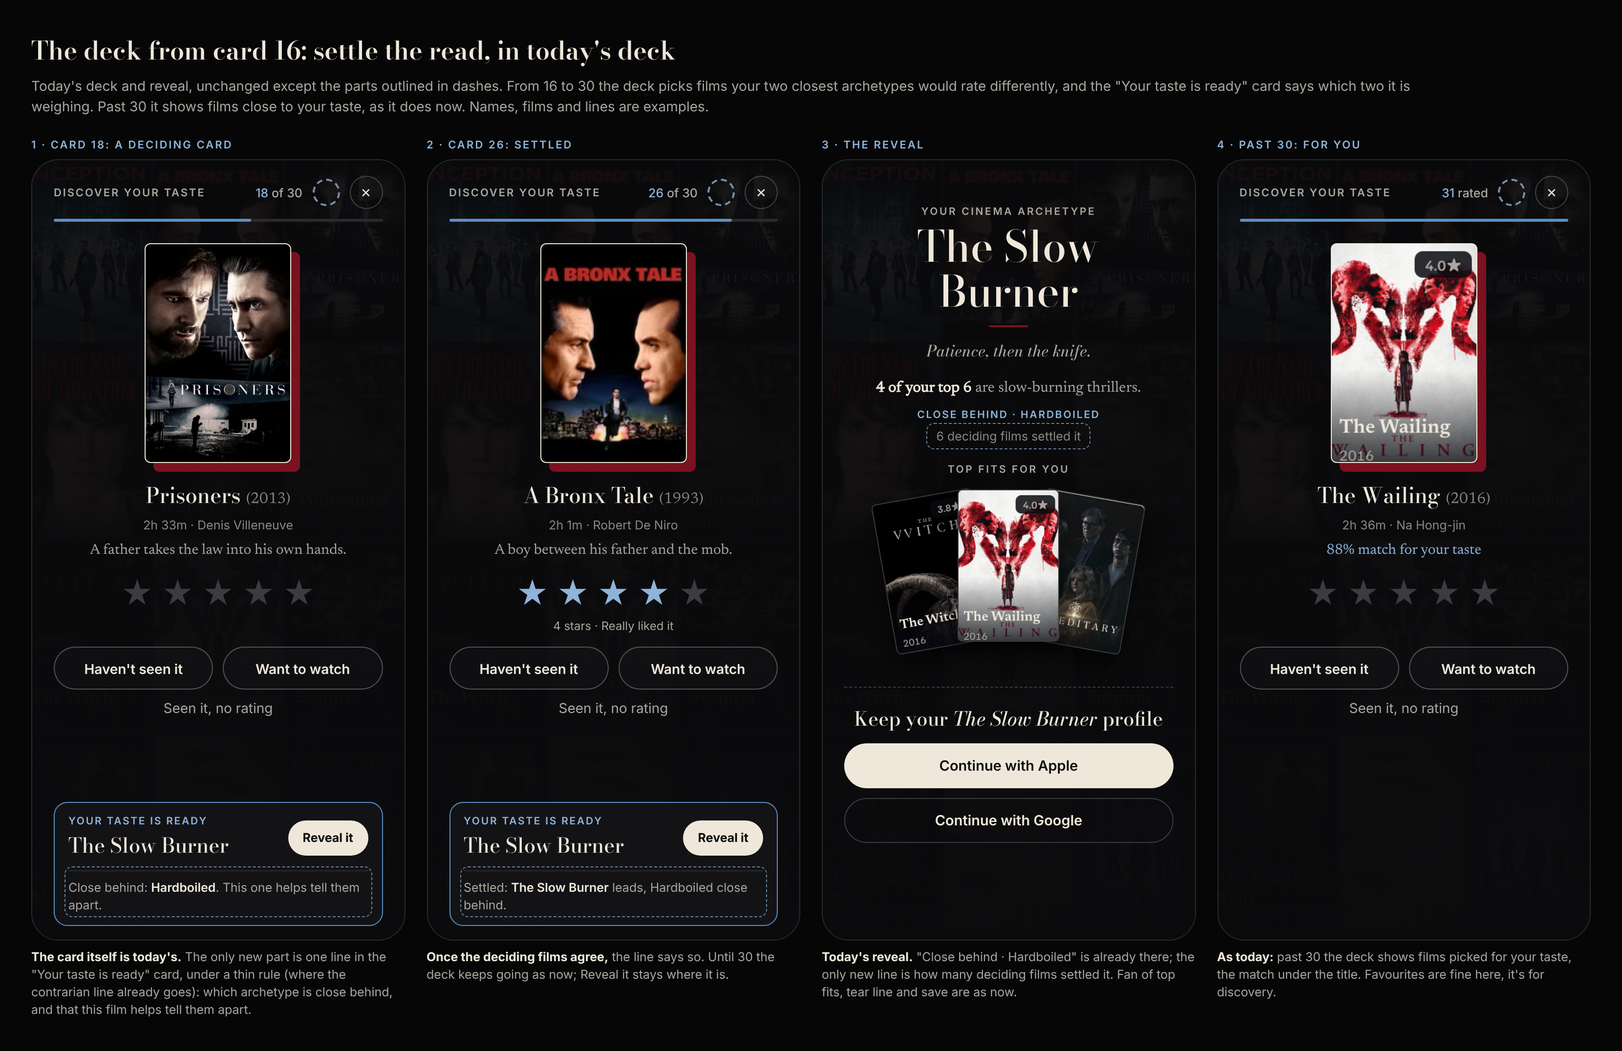
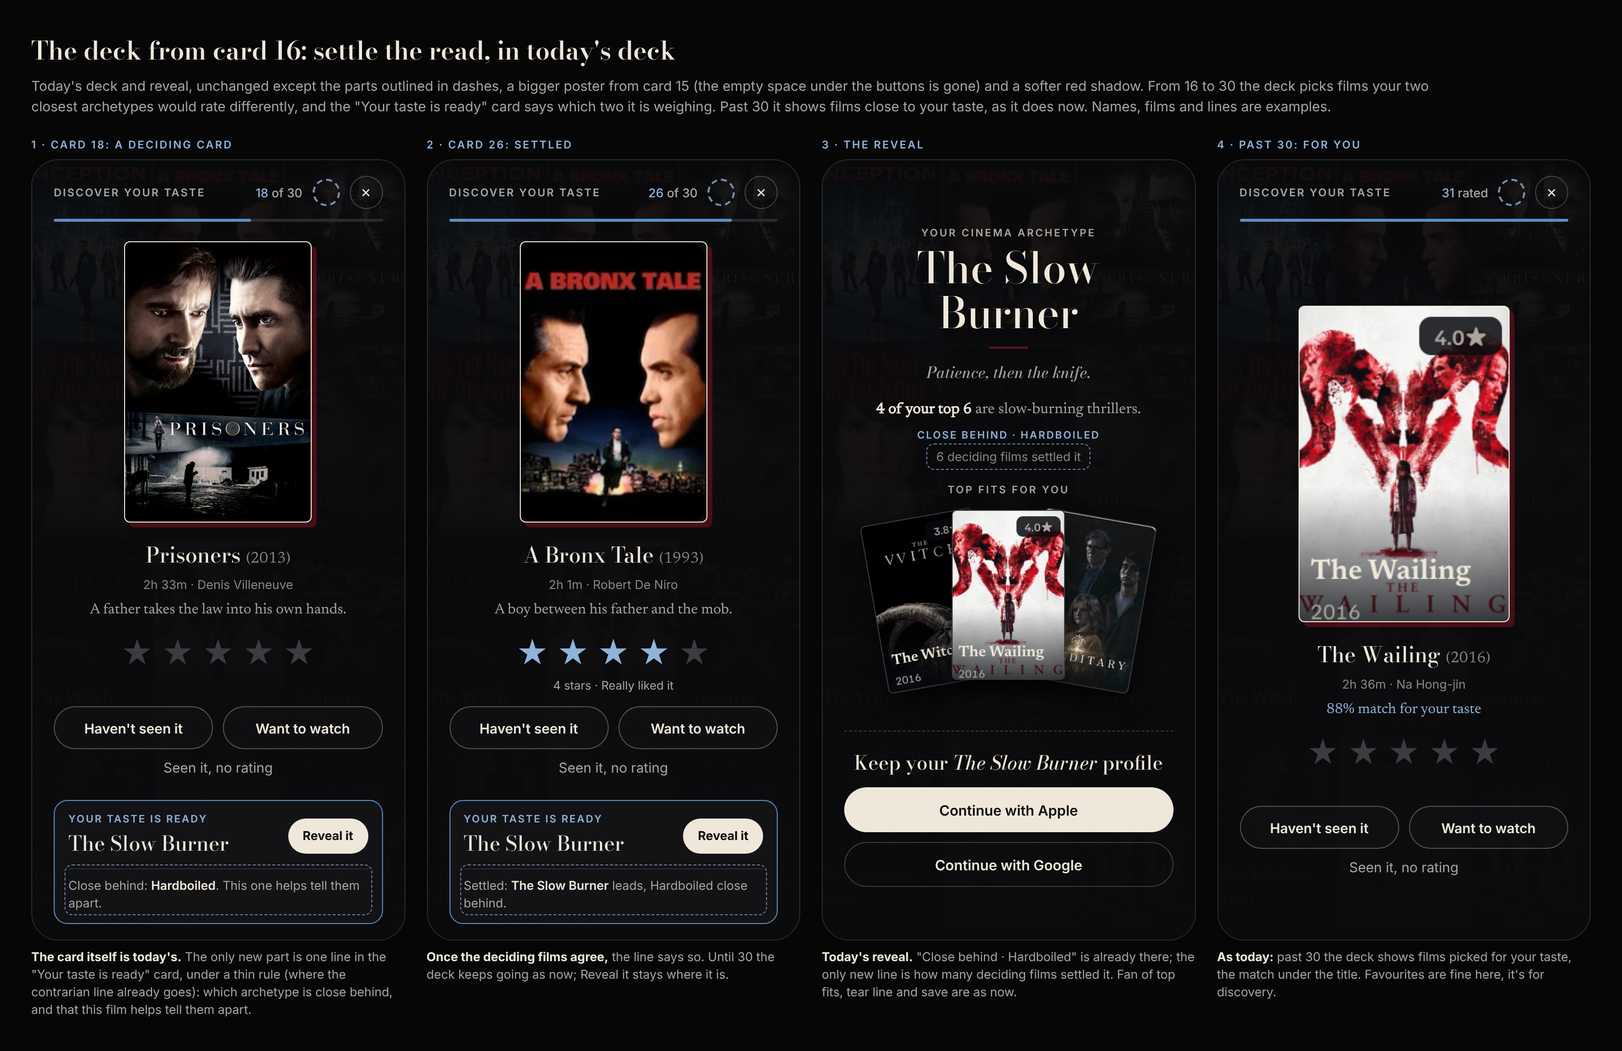
Mock: deciding cards, tighter spacing and softer red shadow
Claude-Session: https://claude.ai/code/session_013WRDCFXH8nihP92apJAVW7

diff --git a/mockups/journeys/deck-decide-v2.html b/mockups/journeys/deck-decide-v2.html
@@ -17,7 +17,8 @@ h1{font:600 26px 'Bodoni Moda',serif;margin-bottom:6px}.lede{color:var(--muted);
 .ring{width:28px;height:28px;border-radius:50%;border:2px dashed var(--accent2);opacity:.8}
 .x{width:34px;height:34px;border-radius:50%;border:1px solid rgba(255,255,255,.22);display:flex;align-items:center;justify-content:center;font-size:13px}
 .bar{height:3px;margin:10px 22px 0;background:var(--line);border-radius:2px}.bar i{display:block;height:100%;background:var(--accent);border-radius:2px}
-.po{width:150px;height:225px;margin:22px auto 0;background:center/cover;border-radius:6px;border:1.5px solid var(--ink);box-shadow:9px 9px 0 #7a1220}
+.po{width:192px;height:288px;margin:20px auto 0;background:center/cover;border-radius:6px;border:1.5px solid var(--ink);box-shadow:5px 5px 0 rgba(122,18,32,.55)}
+.ph.solo .po{width:216px;height:324px}.ph.solo .pad{margin-top:auto}
 .ti{text-align:center;margin-top:16px;padding:0 22px;font:500 22px 'Bodoni Moda'}.ti span{font:400 16px Newsreader;color:var(--faint)}
 .mt{text-align:center;font-size:12.5px;color:var(--faint);margin-top:6px}
 .hk{text-align:center;font:400 15px/1.4 Newsreader;color:var(--muted);margin-top:8px;padding:0 26px}
@@ -26,7 +27,7 @@ h1{font:600 26px 'Bodoni Moda',serif;margin-bottom:6px}.lede{color:var(--muted);
 .cap{text-align:center;font-size:12px;color:var(--muted);margin-top:6px;min-height:15px}
 .bt{display:flex;gap:10px;padding:0 22px;margin-top:14px}.bt span{flex:1;height:44px;border-radius:999px;border:1px solid rgba(255,255,255,.28);display:flex;align-items:center;justify-content:center;font:600 14px Inter;background:rgba(20,20,23,.5)}
 .qt{text-align:center;color:var(--muted);font-size:14px;margin-top:10px}
-.fc{margin:auto 22px 14px;background:rgba(20,20,23,.96);border:1px solid var(--accent);border-radius:14px;padding:12px 14px}
+.fc{margin:auto 22px 16px;background:rgba(20,20,23,.96);border:1px solid var(--accent);border-radius:14px;padding:12px 14px}
 .fc .r1{display:flex;align-items:center;gap:12px}.fc .m{flex:1}
 .fc .e{font:600 10.5px Inter;letter-spacing:.13em;text-transform:uppercase;color:var(--accent2)}
 .fc .n{font:500 21px 'Bodoni Moda';margin-top:2px}
@@ -35,20 +36,20 @@ h1{font:600 26px 'Bodoni Moda',serif;margin-bottom:6px}.lede{color:var(--muted);
 .fc .l{font-size:12.5px;color:var(--muted);margin-top:8px;line-height:1.4}.fc .l b{color:var(--ink);font-weight:600}
 .new{outline:1.5px dashed rgba(143,179,217,.7);outline-offset:3px;border-radius:4px}
 /* reveal */
-.rv{padding:30px 22px 0;text-align:center;display:flex;flex-direction:column;align-items:center}
+.rv{flex:1;justify-content:center;padding:20px 22px 22px;text-align:center;display:flex;flex-direction:column;align-items:center}
 .cl{font:600 10.5px Inter;letter-spacing:.17em;text-transform:uppercase;color:var(--muted)}
 .nm{font:500 44px/1.05 'Bodoni Moda';margin-top:6px}
-.ox{width:40px;height:2px;background:#7a1220;margin-top:12px}
+.ox{width:40px;height:2px;background:rgba(122,18,32,.8);margin-top:12px}
 .tag{font:italic 500 16px 'Bodoni Moda';color:var(--muted);margin-top:12px}
 .why{font:400 15.5px/1.45 Newsreader;color:var(--muted);margin-top:16px}.why b{color:var(--ink)}
 .stk{font:600 10.5px Inter;letter-spacing:.13em;text-transform:uppercase;color:var(--accent2);margin-top:8px}
-.fan{position:relative;height:190px;width:100%;margin-top:14px}.fan i{position:absolute;left:50%;top:6px;width:104px;height:156px;border-radius:5px;background:center/cover;border:1px solid var(--line2);box-shadow:0 10px 24px rgba(0,0,0,.6)}
-.tear{width:100%;border-top:1.5px dashed var(--line2);margin-top:12px}
+.fan{position:relative;height:210px;width:100%;margin-top:14px}.fan i{position:absolute;left:50%;top:6px;width:116px;height:174px;border-radius:5px;background:center/cover;border:1px solid var(--line2);box-shadow:0 10px 24px rgba(0,0,0,.6)}
+.tear{width:100%;border-top:1.5px dashed var(--line2);margin-top:16px}
 .keep{font:500 20px 'Bodoni Moda';margin-top:16px}.keep i{font-style:italic}
 .sb{width:100%;height:46px;border-radius:999px;display:flex;align-items:center;justify-content:center;font:600 14.5px Inter;margin-top:10px}
 .sb.a{background:var(--ink);color:var(--bg)}.sb.g{border:1px solid var(--line2)}
 </style></head><body><h1>The deck from card 16: settle the read, in today's deck</h1>
-<p class="lede">Today's deck and reveal, unchanged except the parts outlined in dashes. From 16 to 30 the deck picks films your two closest archetypes would rate differently, and the "Your taste is ready" card says which two it is weighing. Past 30 it shows films close to your taste, as it does now. Names, films and lines are examples.</p>
+<p class="lede">Today's deck and reveal, unchanged except the parts outlined in dashes, a bigger poster from card 15 (the empty space under the buttons is gone) and a softer red shadow. From 16 to 30 the deck picks films your two closest archetypes would rate differently, and the "Your taste is ready" card says which two it is weighing. Past 30 it shows films close to your taste, as it does now. Names, films and lines are examples.</p>
 <div class="grid">
 <div><div class="tg">1 · Card 18: a deciding card</div><div class="ph wb"><div class="bgw"><i class="lit" style="background-image:url(../img/inception.png)"></i><i class="lit" style="background-image:url(../img/bronx.png)"></i><i class="lit" style="background-image:url(../img/prisoners.png)"></i><i class="lit" style="background-image:url(../img/itnotf.png)"></i><i class="" style="background-image:url(../img/hereditary.png)"></i><i class="" style="background-image:url(../img/midsommar.png)"></i><i class="" style="background-image:url(../img/witch.png)"></i><i class="" style="background-image:url(../img/wailing.png)"></i><i class="" style="background-image:url(../img/suspiria.png)"></i><i class="" style="background-image:url(../img/wickerman.png)"></i><i class="" style="background-image:url(../img/midsommar-top.png)"></i><i class="" style="background-image:url(../img/inception.png)"></i><i class="" style="background-image:url(../img/bronx.png)"></i><i class="" style="background-image:url(../img/prisoners.png)"></i><i class="" style="background-image:url(../img/itnotf.png)"></i><i class="" style="background-image:url(../img/hereditary.png)"></i><i class="" style="background-image:url(../img/midsommar.png)"></i><i class="" style="background-image:url(../img/witch.png)"></i><i class="" style="background-image:url(../img/wailing.png)"></i><i class="" style="background-image:url(../img/suspiria.png)"></i><i class="" style="background-image:url(../img/wickerman.png)"></i><i class="" style="background-image:url(../img/midsommar-top.png)"></i><i class="" style="background-image:url(../img/inception.png)"></i><i class="" style="background-image:url(../img/bronx.png)"></i><i class="" style="background-image:url(../img/prisoners.png)"></i><i class="" style="background-image:url(../img/itnotf.png)"></i><i class="" style="background-image:url(../img/hereditary.png)"></i><i class="" style="background-image:url(../img/midsommar.png)"></i><i class="" style="background-image:url(../img/witch.png)"></i><i class="" style="background-image:url(../img/wailing.png)"></i><i class="" style="background-image:url(../img/suspiria.png)"></i><i class="" style="background-image:url(../img/wickerman.png)"></i><i class="" style="background-image:url(../img/midsommar-top.png)"></i><i class="" style="background-image:url(../img/inception.png)"></i><i class="" style="background-image:url(../img/bronx.png)"></i><i class="" style="background-image:url(../img/prisoners.png)"></i><i class="" style="background-image:url(../img/itnotf.png)"></i><i class="" style="background-image:url(../img/hereditary.png)"></i><i class="" style="background-image:url(../img/midsommar.png)"></i><i class="" style="background-image:url(../img/witch.png)"></i><i class="" style="background-image:url(../img/wailing.png)"></i><i class="" style="background-image:url(../img/suspiria.png)"></i><i class="" style="background-image:url(../img/wickerman.png)"></i><i class="" style="background-image:url(../img/midsommar-top.png)"></i><i class="" style="background-image:url(../img/inception.png)"></i><i class="" style="background-image:url(../img/bronx.png)"></i><i class="" style="background-image:url(../img/prisoners.png)"></i><i class="" style="background-image:url(../img/itnotf.png)"></i></div><div class="hd"><span class="eb">Discover your taste</span><span class="cnt"><b>18</b> of 30</span><span class="ring"></span><span class="x">✕</span></div><div class="bar"><i style="width:60%"></i></div><div class="po" style="background-image:url(../img/prisoners.png)"></div><div class="ti">Prisoners <span>(2013)</span></div><div class="mt">2h 33m · Denis Villeneuve</div><div class="hk">A father takes the law into his own hands.</div><div class="st"><span>★</span><span>★</span><span>★</span><span>★</span><span>★</span></div><div class="cap"></div><div class="bt"><span>Haven't seen it</span><span>Want to watch</span></div><div class="qt">Seen it, no rating</div><div class="fc"><div class="r1"><div class="m"><div class="e">Your taste is ready</div><div class="n">The Slow Burner</div></div><span class="p">Reveal it</span></div><div class="new"><div class="rl"></div><div class="l">Close behind: <b>Hardboiled</b>. This one helps tell them apart.</div></div></div></div><div class="note"><b>The card itself is today's.</b> The only new part is one line in the "Your taste is ready" card, under a thin rule (where the contrarian line already goes): which archetype is close behind, and that this film helps tell them apart.</div></div>
 <div><div class="tg">2 · Card 26: settled</div><div class="ph wb"><div class="bgw"><i class="lit" style="background-image:url(../img/inception.png)"></i><i class="lit" style="background-image:url(../img/bronx.png)"></i><i class="lit" style="background-image:url(../img/prisoners.png)"></i><i class="lit" style="background-image:url(../img/itnotf.png)"></i><i class="" style="background-image:url(../img/hereditary.png)"></i><i class="" style="background-image:url(../img/midsommar.png)"></i><i class="" style="background-image:url(../img/witch.png)"></i><i class="" style="background-image:url(../img/wailing.png)"></i><i class="" style="background-image:url(../img/suspiria.png)"></i><i class="" style="background-image:url(../img/wickerman.png)"></i><i class="" style="background-image:url(../img/midsommar-top.png)"></i><i class="" style="background-image:url(../img/inception.png)"></i><i class="" style="background-image:url(../img/bronx.png)"></i><i class="" style="background-image:url(../img/prisoners.png)"></i><i class="" style="background-image:url(../img/itnotf.png)"></i><i class="" style="background-image:url(../img/hereditary.png)"></i><i class="" style="background-image:url(../img/midsommar.png)"></i><i class="" style="background-image:url(../img/witch.png)"></i><i class="" style="background-image:url(../img/wailing.png)"></i><i class="" style="background-image:url(../img/suspiria.png)"></i><i class="" style="background-image:url(../img/wickerman.png)"></i><i class="" style="background-image:url(../img/midsommar-top.png)"></i><i class="" style="background-image:url(../img/inception.png)"></i><i class="" style="background-image:url(../img/bronx.png)"></i><i class="" style="background-image:url(../img/prisoners.png)"></i><i class="" style="background-image:url(../img/itnotf.png)"></i><i class="" style="background-image:url(../img/hereditary.png)"></i><i class="" style="background-image:url(../img/midsommar.png)"></i><i class="" style="background-image:url(../img/witch.png)"></i><i class="" style="background-image:url(../img/wailing.png)"></i><i class="" style="background-image:url(../img/suspiria.png)"></i><i class="" style="background-image:url(../img/wickerman.png)"></i><i class="" style="background-image:url(../img/midsommar-top.png)"></i><i class="" style="background-image:url(../img/inception.png)"></i><i class="" style="background-image:url(../img/bronx.png)"></i><i class="" style="background-image:url(../img/prisoners.png)"></i><i class="" style="background-image:url(../img/itnotf.png)"></i><i class="" style="background-image:url(../img/hereditary.png)"></i><i class="" style="background-image:url(../img/midsommar.png)"></i><i class="" style="background-image:url(../img/witch.png)"></i><i class="" style="background-image:url(../img/wailing.png)"></i><i class="" style="background-image:url(../img/suspiria.png)"></i><i class="" style="background-image:url(../img/wickerman.png)"></i><i class="" style="background-image:url(../img/midsommar-top.png)"></i><i class="" style="background-image:url(../img/inception.png)"></i><i class="" style="background-image:url(../img/bronx.png)"></i><i class="" style="background-image:url(../img/prisoners.png)"></i><i class="" style="background-image:url(../img/itnotf.png)"></i></div><div class="hd"><span class="eb">Discover your taste</span><span class="cnt"><b>26</b> of 30</span><span class="ring"></span><span class="x">✕</span></div><div class="bar"><i style="width:86%"></i></div><div class="po" style="background-image:url(../img/bronx.png)"></div><div class="ti">A Bronx Tale <span>(1993)</span></div><div class="mt">2h 1m · Robert De Niro</div><div class="hk">A boy between his father and the mob.</div><div class="st"><span class="on">★</span><span class="on">★</span><span class="on">★</span><span class="on">★</span><span>★</span></div><div class="cap">4 stars · Really liked it</div><div class="bt"><span>Haven't seen it</span><span>Want to watch</span></div><div class="qt">Seen it, no rating</div><div class="fc"><div class="r1"><div class="m"><div class="e">Your taste is ready</div><div class="n">The Slow Burner</div></div><span class="p">Reveal it</span></div><div class="new"><div class="rl"></div><div class="l">Settled: <b>The Slow Burner</b> leads, Hardboiled close behind.</div></div></div></div><div class="note"><b>Once the deciding films agree,</b> the line says so. Until 30 the deck keeps going as now; Reveal it stays where it is.</div></div>
@@ -58,8 +59,8 @@ h1{font:600 26px 'Bodoni Moda',serif;margin-bottom:6px}.lede{color:var(--muted);
 <div class="stk">Close behind · Hardboiled</div>
 <div class="new" style="margin-top:6px;padding:2px 6px"><div class="mt" style="margin-top:0">6 deciding films settled it</div></div>
 <div class="cl" style="margin-top:18px">Top fits for you</div>
-<div class="fan"><i style="background-image:url(../img/witch.png);margin-left:-128px;transform:rotate(-10deg)"></i><i style="background-image:url(../img/hereditary.png);margin-left:24px;transform:rotate(10deg)"></i><i style="background-image:url(../img/wailing.png);margin-left:-52px;top:0;z-index:1"></i></div>
+<div class="fan"><i style="background-image:url(../img/witch.png);margin-left:-138px;transform:rotate(-10deg)"></i><i style="background-image:url(../img/hereditary.png);margin-left:22px;transform:rotate(10deg)"></i><i style="background-image:url(../img/wailing.png);margin-left:-58px;top:0;z-index:1"></i></div>
 <div class="tear"></div><div class="keep">Keep your <i>The Slow Burner</i> profile</div>
 <div class="sb a">Continue with Apple</div><div class="sb g">Continue with Google</div></div></div><div class="note"><b>Today's reveal.</b> "Close behind · Hardboiled" is already there; the only new line is how many deciding films settled it. Fan of top fits, tear line and save are as now.</div></div>
-<div><div class="tg">4 · Past 30: for you</div><div class="ph wb"><div class="bgw"><i class="lit" style="background-image:url(../img/inception.png)"></i><i class="lit" style="background-image:url(../img/bronx.png)"></i><i class="lit" style="background-image:url(../img/prisoners.png)"></i><i class="lit" style="background-image:url(../img/itnotf.png)"></i><i class="" style="background-image:url(../img/hereditary.png)"></i><i class="" style="background-image:url(../img/midsommar.png)"></i><i class="" style="background-image:url(../img/witch.png)"></i><i class="" style="background-image:url(../img/wailing.png)"></i><i class="" style="background-image:url(../img/suspiria.png)"></i><i class="" style="background-image:url(../img/wickerman.png)"></i><i class="" style="background-image:url(../img/midsommar-top.png)"></i><i class="" style="background-image:url(../img/inception.png)"></i><i class="" style="background-image:url(../img/bronx.png)"></i><i class="" style="background-image:url(../img/prisoners.png)"></i><i class="" style="background-image:url(../img/itnotf.png)"></i><i class="" style="background-image:url(../img/hereditary.png)"></i><i class="" style="background-image:url(../img/midsommar.png)"></i><i class="" style="background-image:url(../img/witch.png)"></i><i class="" style="background-image:url(../img/wailing.png)"></i><i class="" style="background-image:url(../img/suspiria.png)"></i><i class="" style="background-image:url(../img/wickerman.png)"></i><i class="" style="background-image:url(../img/midsommar-top.png)"></i><i class="" style="background-image:url(../img/inception.png)"></i><i class="" style="background-image:url(../img/bronx.png)"></i><i class="" style="background-image:url(../img/prisoners.png)"></i><i class="" style="background-image:url(../img/itnotf.png)"></i><i class="" style="background-image:url(../img/hereditary.png)"></i><i class="" style="background-image:url(../img/midsommar.png)"></i><i class="" style="background-image:url(../img/witch.png)"></i><i class="" style="background-image:url(../img/wailing.png)"></i><i class="" style="background-image:url(../img/suspiria.png)"></i><i class="" style="background-image:url(../img/wickerman.png)"></i><i class="" style="background-image:url(../img/midsommar-top.png)"></i><i class="" style="background-image:url(../img/inception.png)"></i><i class="" style="background-image:url(../img/bronx.png)"></i><i class="" style="background-image:url(../img/prisoners.png)"></i><i class="" style="background-image:url(../img/itnotf.png)"></i><i class="" style="background-image:url(../img/hereditary.png)"></i><i class="" style="background-image:url(../img/midsommar.png)"></i><i class="" style="background-image:url(../img/witch.png)"></i><i class="" style="background-image:url(../img/wailing.png)"></i><i class="" style="background-image:url(../img/suspiria.png)"></i><i class="" style="background-image:url(../img/wickerman.png)"></i><i class="" style="background-image:url(../img/midsommar-top.png)"></i><i class="" style="background-image:url(../img/inception.png)"></i><i class="" style="background-image:url(../img/bronx.png)"></i><i class="" style="background-image:url(../img/prisoners.png)"></i><i class="" style="background-image:url(../img/itnotf.png)"></i></div><div class="hd"><span class="eb">Discover your taste</span><span class="cnt"><b>31</b> rated</span><span class="ring"></span><span class="x">✕</span></div><div class="bar"><i style="width:100%"></i></div><div class="po" style="background-image:url(../img/wailing.png)"></div><div class="ti">The Wailing <span>(2016)</span></div><div class="mt">2h 36m · Na Hong-jin</div><div class="hk fit">88% match for your taste</div><div class="st"><span>★</span><span>★</span><span>★</span><span>★</span><span>★</span></div><div class="cap"></div><div class="bt"><span>Haven't seen it</span><span>Want to watch</span></div><div class="qt">Seen it, no rating</div><div style="margin-top:auto"></div></div><div class="note"><b>As today:</b> past 30 the deck shows films picked for your taste, the match under the title. Favourites are fine here, it's for discovery.</div></div>
+<div><div class="tg">4 · Past 30: for you</div><div class="ph wb solo"><div class="bgw"><i class="lit" style="background-image:url(../img/inception.png)"></i><i class="lit" style="background-image:url(../img/bronx.png)"></i><i class="lit" style="background-image:url(../img/prisoners.png)"></i><i class="lit" style="background-image:url(../img/itnotf.png)"></i><i class="" style="background-image:url(../img/hereditary.png)"></i><i class="" style="background-image:url(../img/midsommar.png)"></i><i class="" style="background-image:url(../img/witch.png)"></i><i class="" style="background-image:url(../img/wailing.png)"></i><i class="" style="background-image:url(../img/suspiria.png)"></i><i class="" style="background-image:url(../img/wickerman.png)"></i><i class="" style="background-image:url(../img/midsommar-top.png)"></i><i class="" style="background-image:url(../img/inception.png)"></i><i class="" style="background-image:url(../img/bronx.png)"></i><i class="" style="background-image:url(../img/prisoners.png)"></i><i class="" style="background-image:url(../img/itnotf.png)"></i><i class="" style="background-image:url(../img/hereditary.png)"></i><i class="" style="background-image:url(../img/midsommar.png)"></i><i class="" style="background-image:url(../img/witch.png)"></i><i class="" style="background-image:url(../img/wailing.png)"></i><i class="" style="background-image:url(../img/suspiria.png)"></i><i class="" style="background-image:url(../img/wickerman.png)"></i><i class="" style="background-image:url(../img/midsommar-top.png)"></i><i class="" style="background-image:url(../img/inception.png)"></i><i class="" style="background-image:url(../img/bronx.png)"></i><i class="" style="background-image:url(../img/prisoners.png)"></i><i class="" style="background-image:url(../img/itnotf.png)"></i><i class="" style="background-image:url(../img/hereditary.png)"></i><i class="" style="background-image:url(../img/midsommar.png)"></i><i class="" style="background-image:url(../img/witch.png)"></i><i class="" style="background-image:url(../img/wailing.png)"></i><i class="" style="background-image:url(../img/suspiria.png)"></i><i class="" style="background-image:url(../img/wickerman.png)"></i><i class="" style="background-image:url(../img/midsommar-top.png)"></i><i class="" style="background-image:url(../img/inception.png)"></i><i class="" style="background-image:url(../img/bronx.png)"></i><i class="" style="background-image:url(../img/prisoners.png)"></i><i class="" style="background-image:url(../img/itnotf.png)"></i><i class="" style="background-image:url(../img/hereditary.png)"></i><i class="" style="background-image:url(../img/midsommar.png)"></i><i class="" style="background-image:url(../img/witch.png)"></i><i class="" style="background-image:url(../img/wailing.png)"></i><i class="" style="background-image:url(../img/suspiria.png)"></i><i class="" style="background-image:url(../img/wickerman.png)"></i><i class="" style="background-image:url(../img/midsommar-top.png)"></i><i class="" style="background-image:url(../img/inception.png)"></i><i class="" style="background-image:url(../img/bronx.png)"></i><i class="" style="background-image:url(../img/prisoners.png)"></i><i class="" style="background-image:url(../img/itnotf.png)"></i></div><div class="hd"><span class="eb">Discover your taste</span><span class="cnt"><b>31</b> rated</span><span class="ring"></span><span class="x">✕</span></div><div class="bar"><i style="width:100%"></i></div><div class="pad"></div><div class="po" style="background-image:url(../img/wailing.png)"></div><div class="ti">The Wailing <span>(2016)</span></div><div class="mt">2h 36m · Na Hong-jin</div><div class="hk fit">88% match for your taste</div><div class="st"><span>★</span><span>★</span><span>★</span><span>★</span><span>★</span></div><div class="cap"></div><div class="bt"><span>Haven't seen it</span><span>Want to watch</span></div><div class="qt">Seen it, no rating</div><div class="pad"></div></div><div class="note"><b>As today:</b> past 30 the deck shows films picked for your taste, the match under the title. Favourites are fine here, it's for discovery.</div></div>
 </div></body></html>
